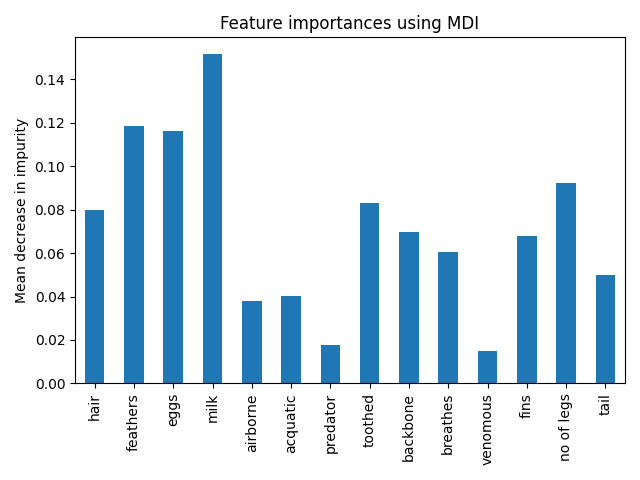
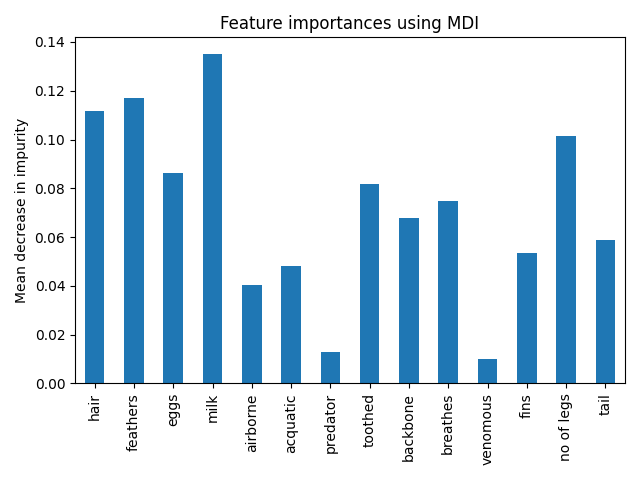
added xgboost as a black box and some feature importances

diff --git a/rdr.py b/rdr.py
@@ -7,6 +7,7 @@ from sklearn.model_selection import train_test_split
 from sklearn.metrics import confusion_matrix
 from sklearn.tree import export_graphviz
 from sklearn.ensemble import RandomForestClassifier
+import xgboost as xgb
 from six import StringIO 
 from IPython.display import Image 
 from pydot import graph_from_dot_data
@@ -169,13 +170,25 @@ def add_conclusion_no_prints(df, case, conclusion):
     df.loc[df["name"] == case, 'conclusion'] = conclusion
     return
 
-# predict case using decision tree (dt)
+# predict case using black box (dt) and dataframe (df)
 def predict_case(df, dt, case):
-    c = df.loc[df["name"] == case]
-    c = c.iloc[:,1:-4]
-    r = dt.predict(c) # gives an encoded array
-    r = le.inverse_transform(r) # unencode it
-    return r[0]
+    # xgboost uses a dmatrix instead of dataframe
+    if dt == bst:
+        # create the dmatrix needed for xgboost
+        dmatrix = xgb.DMatrix(X, label=y)
+        # get dataframe index of given case
+        index = df.index[df['name']==case].tolist()[0]
+        # ypred gives an array of numbers - round these numbers to get the encoded values
+        ypred = dt.predict(dmatrix)
+        # inverse transform these numbers to get the class
+        r = list(le.inverse_transform([round(ypred[index])]))
+        return r[0]
+    else:
+        c = df.loc[df["name"] == case]
+        c = c.iloc[:,1:-4]
+        r = dt.predict(c) # gives an encoded array
+        r = le.inverse_transform(r) # unencode it
+        return r[0]
 
 # add new rule to rules_list - cornerstone. true_cases = []. returns an updated rules_list
 def add_cornerstone_rule(rule, conclusion, nextTrue, nextFalse, case, rules_count, rules_list):
@@ -253,6 +266,24 @@ def add_refinement_rule(last_rule, case, rules_count, rules_list, df):
     n = rules_list[rules_count]
     print('{:<12} {:<12} {:<12} {:<12} {:<12} {:<12} {:<12}\n'.format(n.num, n.data, n.con, str(n.nextTrue), str(n.nextFalse), n.case, str(n.true_cases)))
     return rules_list
+
+# let the user choose which "black box" classifier
+def choose_black_box():
+    print(f"Choose which model to use as a \"black box\" classifier: ")
+    print("Press (1) to use a decision tree")
+    print("Press (2) to use a random forest")
+    print("Press (3) to use xgboost")
+    m = int(input())
+    bb = dt # black box is decision tree by default
+    # use decision tree (dt)
+    if m == 1:
+        bb = dt
+    # use random forest (rf)
+    elif m == 2:
+        bb = rf
+    else:
+        bb = bst
+    return bb
 
 #############################################################################################################################
 print("initialising rules_list and rules_count...", end='')
@@ -342,20 +373,20 @@ print("Done")
 print(f"training random forest as \"black box\" classifier...", end='')
 rf = RandomForestClassifier() # using default parameters (100 trees)
 rf = rf.fit(X, y)
+print("Done")
+
+# train xgboost
+print(f"training xgboost as \"black box\" classifier...", end='')
+# xgboost uses a dmatrix instead of a dataframe
+dmatrix = xgb.DMatrix(X, label=y)
+num_round = 10
+bst = xgb.train([], dmatrix, num_round, [])
+bst.save_model('xgboostmodel.model')
+#xgb.plot_tree(bst, num_trees=2)
 print("Done\n")
 
 # choose bb model
-print(f"Choose which model to use as a black box classifier: ")
-print("Press (1) to use a decision tree")
-print("Press (2) to use a random forest")
-m = int(input())
-bb = dt # black box is decision tree by default
-# use decision tree (dt)
-if m == 1:
-    bb = dt
-# use random forest (rf)
-else:
-    bb = rf
+bb = choose_black_box()
 
 # prompt loop
 while (True):
@@ -368,9 +399,10 @@ while (True):
     print("Press (6) to clear rules")
     print("Press (7) to clear conclusions")
     print("Press (8) to show decision path of decision tree")
-    print("Press (9) to show feature importances of random forest")
-    print("Press (10) to save/loadrules_list to/from a file")
-    print("Press (11) to change black box model")
+    print("Press (9) to show feature importances from random forest")
+    print("Press (10) to show feature importances from xgboost")
+    print("Press (11) to save/loadrules_list to/from a file")
+    print("Press (12) to change black box model")
     #print("Press (q) to quit")
     i = int(input())
     # print cases dataframe
@@ -566,8 +598,27 @@ while (True):
         fig.tight_layout()
         plt.savefig('randomforestfeatureimportancesMAD.png')
         print("Done\n")
-    # save or read in rules_list
+    # get feature importance from xgboost
     elif i == 10:
+        # built in feature importances
+        xgb.plot_importance(bst)
+        plt.show()
+        xgboost2 = "xgboostfeatureimportance.png"
+        plt.savefig(xgboost2)
+        print(f"Saved feature importances plot 1 to file: {xgboost2}")
+        # custom feature importance
+        feature_important = bst.get_score(importance_type='weight')
+        keys = list(feature_important.keys())
+        values = list(feature_important.values())
+
+        data = pd.DataFrame(data=values, index=keys, columns=["score"]).sort_values(by = "score", ascending=False)
+        data.plot(kind='bar')
+        xgboost1 = 'xgboostfeatureimportancecustom.png'
+        plt.savefig(xgboost1)
+        plt.show()
+        print(f"Saved feature importances plot 2 to file: {xgboost1}\n")
+    # save or read in rules_list
+    elif i == 11:
         saveorload = input("Would you like to save or load rules? (s/l): \n").lower()
         if saveorload == "s" or saveorload == "save":
             print("WARNING: choose a name for a file that does not exist")
@@ -605,19 +656,8 @@ while (True):
                     rules_list[i] = Node(num=x[0], data=x[1], con=x[2], nextTrue=x[3], nextFalse=x[4], case=x[5], true_cases=x[6])
                     i += 1
     # change black box model
-    elif i == 11:
-        # choose bb model
-        print(f"Choose which model to use as a black box classifier: ")
-        print("Press (1) to use a decision tree")
-        print("Press (2) to use a random forest")
-        m = int(input())
-        bb = dt # black box is decision tree by default
-        # use decision tree (dt)
-        if m == 1:
-            bb = dt
-        # use random forest (rf)
-        else:
-            bb = rf
+    elif i == 12:
+        bb = choose_black_box()
     else: 
         exit()
 
